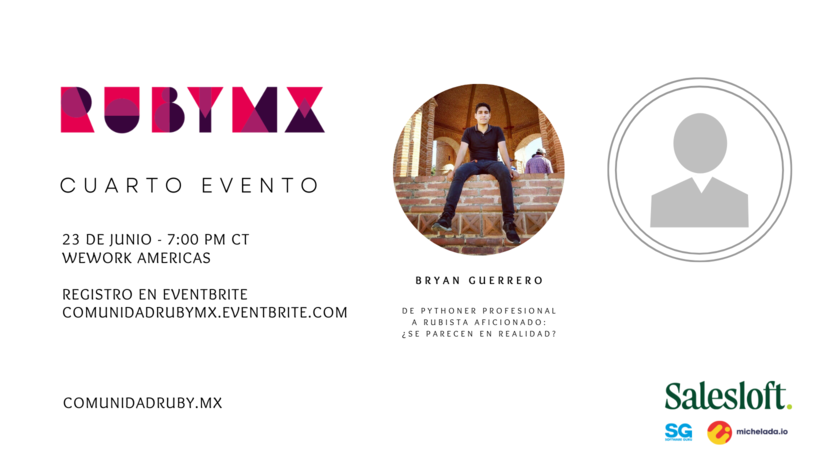
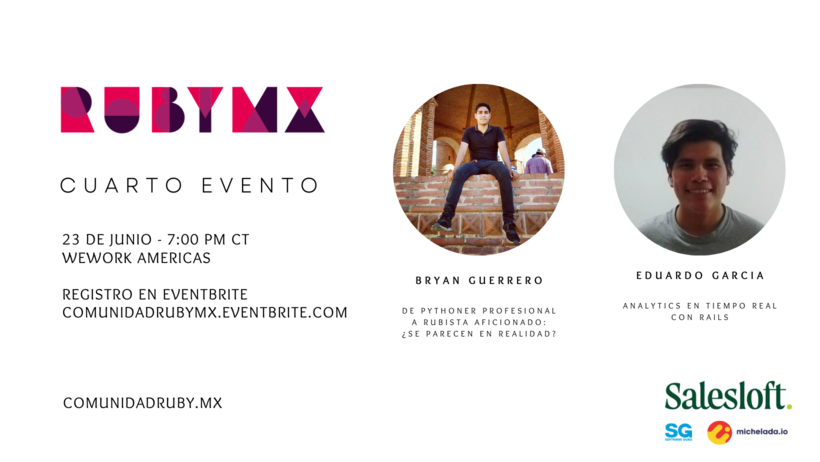
Add second talk info

Changed region(s): [[0.7317, 0.1515, 0.9756, 0.6061], [0.7622, 0.6364, 0.9451, 0.697]]

diff --git a/src/eventos.md b/src/eventos.md
@@ -31,7 +31,7 @@ Detalles del streaming el día del evento en nuestras redes sociales
 
 8:10 Break
 
-8:20 Segunda charla
+8:20 Analytics en tiempo real con Rails - Eduardo García
 
 8:50 Avisos generales
 
@@ -46,6 +46,10 @@ Detalles del streaming el día del evento en nuestras redes sociales
 Bryan Guerrero
 
 25 años. Desarrollador Ruby de tiempo completo y ex-pythoner. Biker aficionado. Disfruta la naturaleza y practicar deporte, en especial taekwondo, y la cerveza oscura.
+
+Eduardo García
+
+Eduardo es software engineer en Salesloft, remoteando desde la ciudad de León(dres), Guanajuato. Además de golpear el teclado gran parte del día, gusta por ir al cine, pasear a su perro, armar carnitas asadas con amistades y familia y por supuesto, asistir a eventos de tecnología e incluso ayudar en la organización de las Calzada Code Talks en su ciudad.
 
 ---
 
